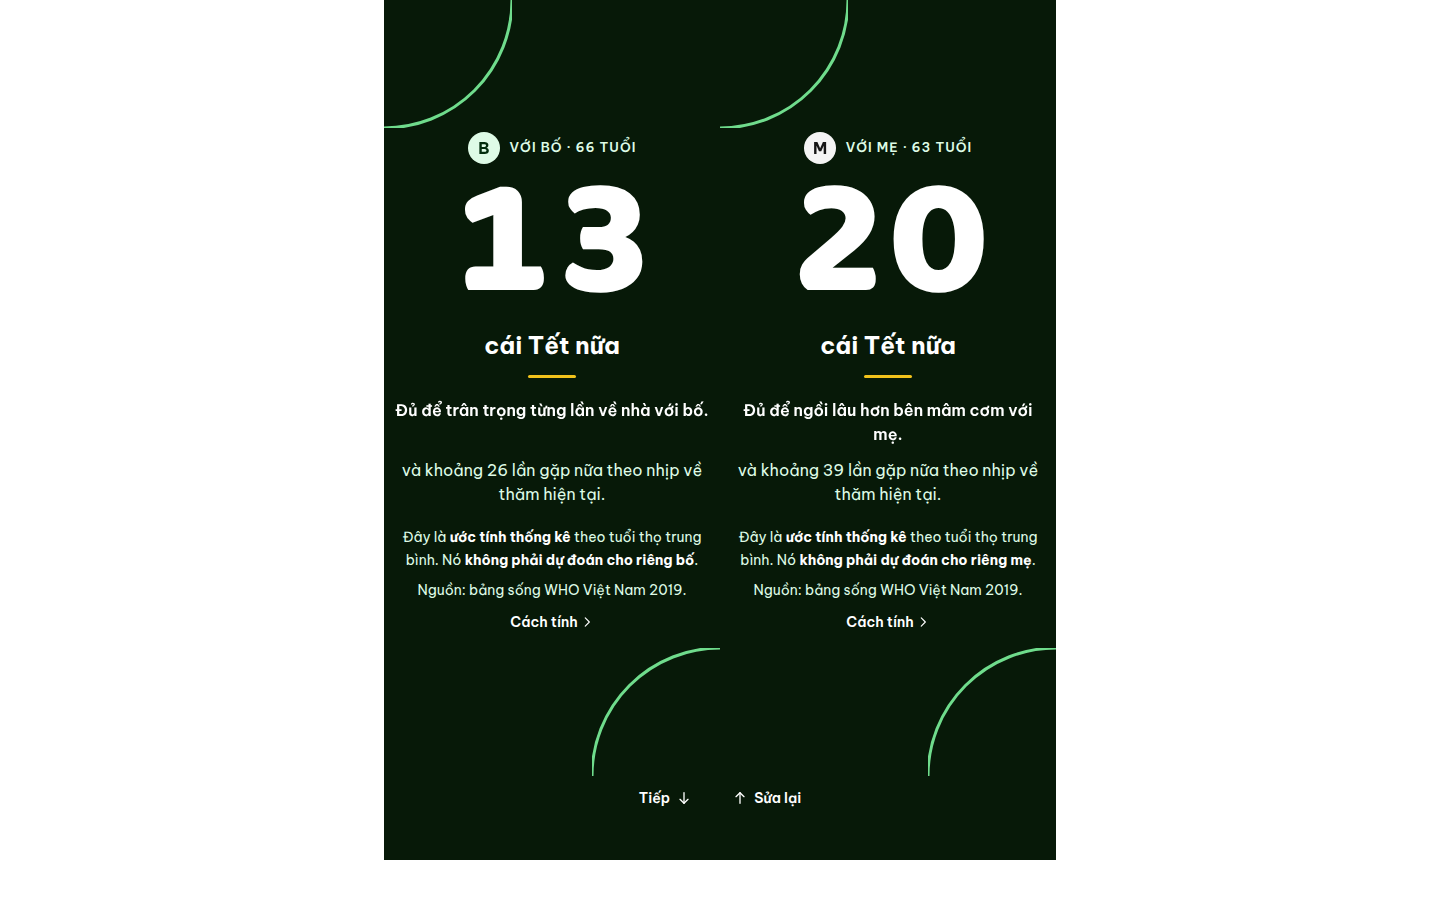
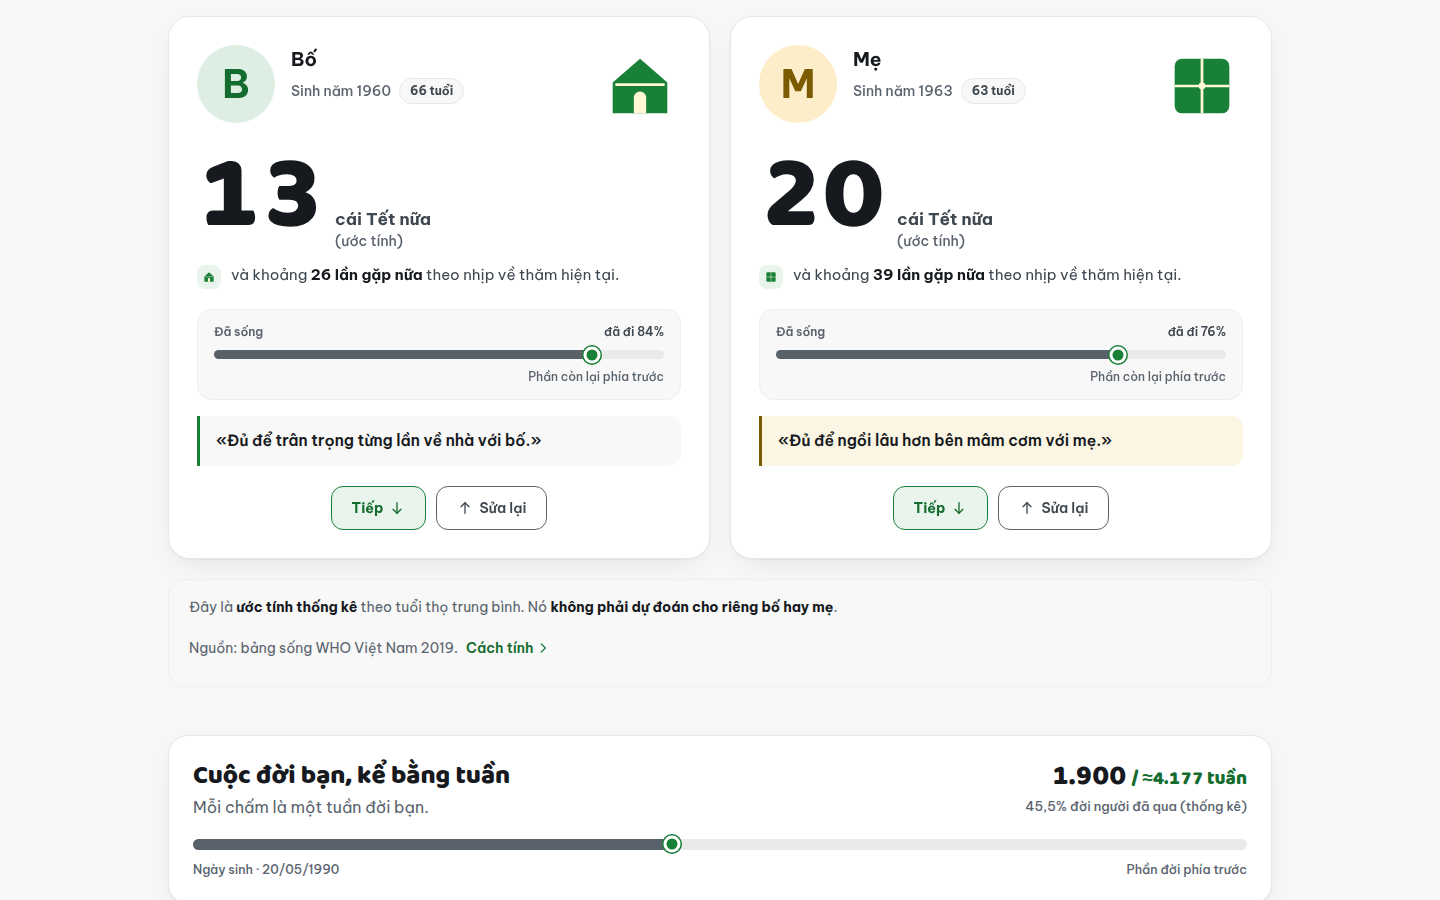
docs: screenshot pack re-shot on live v1.3.0 «Fintech ấm áp» + captions rewritten (R2 sha256-verified, Checker A 7/7 + B 13/13)

diff --git a/README.md b/README.md
@@ -7,7 +7,7 @@ Repo: https://github.com/changvn2002/conmaytet
 <p align="center">
   <img src="docs/screenshots/conmaytet-desktop.png" alt="Còn Mấy Cái Tết Nữa? — kết quả: còn 13 cái Tết với bố và 20 cái Tết với mẹ" width="900">
 </p>
-<p align="center"><em>Một người sinh năm 1990, bố sinh 1960, mẹ sinh 1963, mỗi năm về nhà 2 lần: app tính ra còn khoảng <strong>13 cái Tết với bố</strong> (26 lần gặp) và <strong>20 cái Tết với mẹ</strong> (39 lần gặp) — mỗi con số đứng trần trên một sân khấu riêng, không thẻ, không khung. Ảnh chụp thật từ bản production đang chạy.</em></p>
+<p align="center"><em>Một người sinh năm 1990, bố sinh 1960, mẹ sinh 1963, mỗi năm về nhà 2 lần: app tính ra còn khoảng <strong>13 cái Tết với bố</strong> (26 lần gặp) và <strong>20 cái Tết với mẹ</strong> (39 lần gặp) — mỗi con số nằm trên một thẻ trắng riêng trên nền trung tính sáng: thẻ của bố có minh hoạ ngôi nhà khối đặc và avatar initials «B» tông xanh nhạt, thẻ của mẹ có bánh chưng khối đặc và avatar «M» tông kem. Ảnh chụp thật từ bản production đang chạy.</em></p>
 
 Đi làm xa, mỗi năm về nhà được một hai lần — vậy **còn bao nhiêu cái Tết với bố
 mẹ** nữa? **Còn Mấy Cái Tết Nữa?** giúp bạn nhìn thấy con số đó: nhập năm sinh
@@ -25,63 +25,72 @@ ngay trong trình duyệt của bạn.
 ## 🖼 Ảnh chụp từ bản live
 
 Tất cả ảnh dưới đây được chụp trực tiếp từ bản production
-[https://conmaytet.vercel.app](https://conmaytet.vercel.app) khi app đang ở
-trạng thái **đã nhập xong một bộ dữ liệu đầy đủ và hiển thị kết quả** — đúng
-những gì người dùng nhìn thấy sau khi nhập. Giao diện là một luồng 4 cảnh nối
-tiếp nhau (Scene Flow): Lời mời → Sân khấu số → Câu chuyện tuần đời → Gửi đi.
+[https://conmaytet.vercel.app](https://conmaytet.vercel.app) với **cùng một
+bộ dữ liệu đầy đủ**: ảnh đầu tiên là form đã nhập xong, các ảnh còn lại là
+những gì người dùng nhìn thấy sau khi bấm nút "Xem còn mấy cái Tết" để hiện
+kết quả. Giao diện là một luồng 4 cảnh nối tiếp nhau (Scene Flow): Lời mời →
+Kết quả → Câu chuyện tuần đời → Gửi đi.
 Bộ dữ liệu trong ảnh: bạn sinh 20/05/1990, giới tính Nữ, bố sinh 1960, mẹ
 sinh 1963, về thăm nhà 2 lần/năm.
 
-### Cảnh 2 — Sân khấu số: giá trị cốt lõi của app
+### Cảnh 2 — Hai thẻ kết quả: giá trị cốt lõi của app
 
-![Desktop 1440×900 — Cảnh 2: hai sân khấu số lớn của bố và mẹ đứng cạnh nhau](docs/screenshots/conmaytet-desktop.png)
+![Desktop 1440×900 — Cảnh 2: hai thẻ kết quả của bố và mẹ cạnh nhau trên nền trung tính sáng](docs/screenshots/conmaytet-desktop.png)
 
-_Trên desktop, hai sân khấu số đứng cạnh nhau, con số đứng trần giữa nền xanh
-đậm — không thẻ, không viền: **với bố (66 tuổi): 13 cái Tết nữa, khoảng 26
-lần gặp**; **với mẹ (63 tuổi): 20 cái Tết nữa, khoảng 39 lần gặp**. Dưới mỗi
-con số là một câu riêng cho từng người, dòng lưu ý đây là ước tính thống kê và
-nguồn bảng sống WHO Việt Nam 2019._
+_Trên desktop, hai thẻ trắng đứng cạnh nhau trên nền trung tính sáng, mỗi
+thẻ một con số lớn: **với bố (66 tuổi): 13 cái Tết nữa, khoảng 26 lần gặp**;
+**với mẹ (63 tuổi): 20 cái Tết nữa, khoảng 39 lần gặp**. Mỗi thẻ có avatar
+initials và minh hoạ khối đặc riêng — ngôi nhà cho bố, bánh chưng cho mẹ —
+thanh "Đã sống" và một câu riêng cho từng người. Ngay dưới hai thẻ là dòng
+lưu ý đây là ước tính thống kê và nguồn bảng sống WHO Việt Nam 2019._
 
 | Mobile (390×844) | Social / link-preview (1280×640) |
 | --- | --- |
-| ![Mobile — sân khấu số của bố chiếm trọn màn hình điện thoại](docs/screenshots/conmaytet-mobile.png) | ![Social — khung ngang vẫn thấy trọn hai sân khấu số](docs/screenshots/conmaytet-social.png) |
-| _Trên điện thoại, mỗi sân khấu chiếm trọn một màn hình: trong ảnh là sân khấu của bố — số 13 thật lớn, đọc rõ cùng câu riêng và dòng ước tính thống kê; cuộn xuống là sân khấu của mẹ._ | _Khung 1280×640 dùng khi gửi link app qua Zalo/Facebook — vẫn thấy trọn cả hai sân khấu số và đủ phần giải thích dưới mỗi con số._ |
+| ![Mobile — thẻ kết quả của bố chiếm gần trọn màn hình điện thoại](docs/screenshots/conmaytet-mobile.png) | ![Social — khung ngang vẫn thấy trọn hai thẻ kết quả](docs/screenshots/conmaytet-social.png) |
+| _Trên điện thoại, các thẻ xếp dọc: trong ảnh, thẻ của bố chiếm gần trọn màn hình — số 13 thật lớn, đọc rõ cùng số lần gặp, thanh "Đã sống" và câu riêng; đầu thẻ của mẹ hiện ngay phía dưới, cuộn xuống là thấy trọn._ | _Khung 1280×640 dùng khi gửi link app qua Zalo/Facebook — vẫn thấy trọn cả hai thẻ kết quả và đủ phần giải thích dưới mỗi con số._ |
 
 ### Theo từng cảnh
 
 **Cảnh 1 — Lời mời: nhập ngày sinh của bạn, năm sinh của bố mẹ và nhịp về
-thăm.** Kết quả tự cập nhật ngay khi nhập, không cần bấm nút tính; nút "Xem
-còn mấy cái Tết" chỉ để cuộn xuống sân khấu số.
+thăm.** Form là thẻ trắng trên nền trung tính sáng, hero có cành đào đi chéo
+và ô ngày sinh gồm 3 đoạn riêng (ngày / tháng / năm). Nhập xong phải bấm nút
+"Xem còn mấy cái Tết" thì các cảnh kết quả mới hiện — kết quả không tự hiện
+khi đang nhập.
 
 ![Cảnh 1 — lời mời đã nhập: sinh 20/05/1990, Nữ, bố 1960, mẹ 1963, về thăm 2 lần/năm](docs/screenshots/gallery-01-form-da-nhap.png)
 
-**Cảnh 2 — Sân khấu số: đọc con số của từng người.** Mỗi người một sân khấu
-riêng trên nền xanh đậm, eyebrow kèm avatar initials — «B» cho bố, «M» cho
-mẹ: số cái Tết còn lại bằng số Baloo 2 thật lớn, số lần gặp còn lại theo
-nhịp về thăm hiện tại, câu riêng cho bố và cho mẹ, và dòng nguồn số liệu ngay
-dưới con số.
+**Cảnh 2 — Thẻ kết quả: đọc con số của từng người.** Mỗi người một thẻ trắng
+riêng trên nền trung tính sáng, avatar initials — «B» tông xanh nhạt cho bố,
+«M» tông kem cho mẹ — cùng minh hoạ khối đặc ở góc thẻ: ngôi nhà cho bố, bánh
+chưng cho mẹ. Trong thẻ là số cái Tết còn lại bằng số Baloo 2 thật lớn, số
+lần gặp còn lại theo nhịp về thăm hiện tại, thanh "Đã sống" (đã đi 84% với
+bố, 76% với mẹ), câu riêng cho từng người và hai nút "Tiếp" / "Sửa lại".
 
-![Cảnh 2 — hai sân khấu số: 13 cái Tết với bố, 20 cái Tết với mẹ](docs/screenshots/gallery-02-ket-qua-bo-me.png)
+![Cảnh 2 — clip hai thẻ kết quả (672×331): 13 cái Tết với bố, 20 cái Tết với mẹ](docs/screenshots/gallery-02-ket-qua-bo-me.png)
 
-**Cảnh 3 — Cuộc đời bạn, kể bằng tuần.** Đầu cảnh là avatar initials «B»
-cạnh nhãn «Bạn». Mỗi chấm là một tuần: chấm xanh lá đậm là những tuần đã
-sống, tuần hiện tại là chấm xanh đậm lớn hơn ở cuối phần đã sống, có nhãn
-"Bạn đang ở tuần này" ngay bên dưới, phần chấm xám nhạt là những tuần còn
-lại theo kỳ vọng thống kê. Các mốc tuổi 30 · 40 · 50 · 60 neo ngay trước
-hàng tuần tương ứng (trong ảnh: 30 tuổi · 2020, 40 tuổi · 2030, 50 tuổi ·
-2040, 60 tuổi · 2050). Người trong ảnh đã
-sống 1.900 tuần trên tổng số khoảng 4.177 tuần (45,5%); ngay dưới lưới là 4
-con số của chính bạn: 13.306 ngày đã sống, ≈ 450 lần trăng tròn đã qua, 36
-cái Tết đã trải qua và 45,5% đời người đã qua theo thống kê.
+**Cảnh 3 — Cuộc đời bạn, kể bằng tuần.** Đầu cảnh là tiêu đề kèm dòng tổng
+"1.900 / ≈4.177 tuần · 45,5%" và ngày sinh 20/05/1990. Ngay dưới là dải
+phóng to "Bạn đang ở tuần này · tuần 1.900", với chấm hôm nay khoanh vòng
+xanh và chấm vàng đánh dấu cái Tết. Mỗi chấm trong lưới là một tuần: chấm
+đặc là những tuần đã sống, tuần hiện tại là chấm khoanh vòng xanh ở cuối
+phần đã sống, phần chấm rỗng nhạt là những tuần còn lại theo kỳ vọng thống
+kê. Các mốc tuổi 30 · 40 · 50 · 60 nằm ở đầu khối thập kỷ tương ứng (trong
+ảnh: 30 tuổi · 2020, 40 tuổi · 2030, 50 tuổi · 2040, 60 tuổi · 2050).
+Người trong ảnh đã sống 1.900 tuần trên tổng số khoảng 4.177 tuần (45,5%);
+ngay dưới lưới là 4 con số của chính bạn: 13.306 ngày đã sống, ≈ 450 lần
+trăng tròn đã qua, 36 cái Tết đã trải qua và 45,5% đời người đã qua theo
+thống kê.
 
-![Cảnh 3 — lưới tuần cuộc đời: tuần đã sống, tuần này có nhãn, các mốc tuổi và tuần còn lại](docs/screenshots/gallery-03-luoi-tuan-cuoc-doi.png)
+![Cảnh 3 — lưới tuần cuộc đời (672×1533): dải "Bạn đang ở tuần này", tuần đã sống, các mốc tuổi và tuần còn lại](docs/screenshots/gallery-03-luoi-tuan-cuoc-doi.png)
 
 **Cảnh 4 — Gửi đi: xem trước thẻ kết quả thật trước khi chia sẻ.** Thẻ do
-chính app vẽ bằng canvas ngay trên trình duyệt, mang cả hai con số (13 với
-bố, 20 với mẹ), câu riêng của từng người và dòng "ước tính thống kê — không
-phải dự đoán" in ngay trên thẻ. Đầu thẻ là vòng tròn ở giữa cùng hoa outline
-hai bên và dải xanh ở chân thẻ — không có motif lì xì. Từ đây bạn copy đoạn
-text kết quả hoặc tải ảnh thẻ về máy.
+chính app vẽ bằng canvas ngay trên trình duyệt (ảnh tải về có kích thước
+1080 × 1350), mang cả hai con số (13 với bố, 20 với mẹ), câu riêng của từng
+người và dòng "Ước tính thống kê — không phải dự đoán dành cho bất kỳ cá
+nhân nào." in ngay trên thẻ. Đầu thẻ là cành đào đi chéo như ở hero — không
+phải cung đối xứng, không có motif lì xì; dưới mỗi con số là hàng vạch kèm
+chú thích "Mỗi vạch là một cái Tết còn lại". Từ đây bạn copy đoạn text kết
+quả (nút "Copy kết quả") hoặc tải ảnh thẻ về máy.
 
 ![Cảnh 4 — gửi đi: thẻ kết quả xem trước cùng nút Copy kết quả và Tải ảnh thẻ kết quả](docs/screenshots/gallery-04-tien-the-chia-se.png)
 
